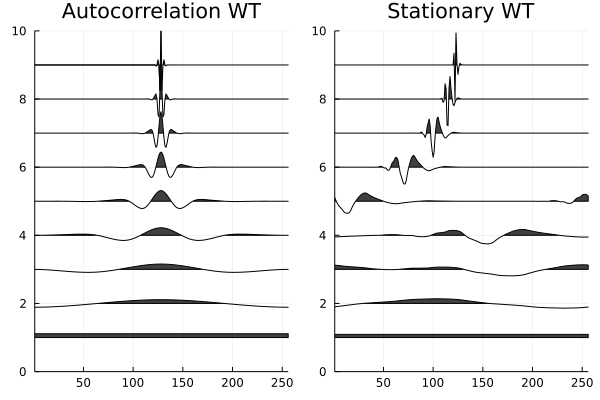
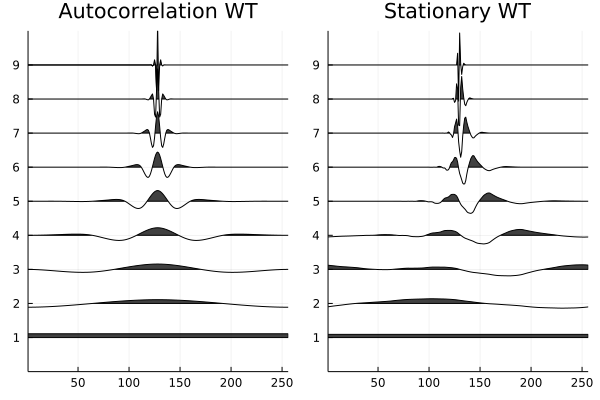
JOSS paper

diff --git a/paper/paper.md b/paper/paper.md
@@ -6,87 +6,100 @@ tags:
 authors:
   - name: Zeng Fung Liew^[co-first author] 
     affiliation: "1" 
-  - name: Shozen Dan^[co-first author] 
+  - name: Shozen Dan^[co-first author, corresponding author]
     affiliation: "2"
-  - name: Naoki Saito^[corresponding author]
-    affiliation: "1"
+  - name: Naoki Saito
+    affiliation: "3"
 affiliations:
- - name: University of California, Davis
+ - name: Department of Statistics, University of California, Davis, United States
    index: 1
- - name: Imperial College London
+ - name: Department of Mathematics, Imperial College London, United Kingdom
    index: 2
+ - name: Department of Mathematics, University of California, Davis, United States
+   index: 3
 date: 22 September 2021
 bibliography: paper.bib
 ---
 
 # Summary
-Whether it is seismic surveys, ECG signals, stock market trends, or sensor data, the wavelet and wavelet packet transforms are powerful tools for signal analysis and classification with many advantages over the conventional Fourier methods. Primary among them is the ability to extract information localized in both time and frequency domains, enabling multiresolution analysis `[@Daubechies:1992, @Mallat:2009]`. As such, wavelets and wavelet packets have become popular tools for computational harmonic analysis. `WaveletsExt.jl` was developed to enrich the wavelet toolbox for Julia by providing routines for wavelet analysis, wavelet packet analysis, and associated utilities.
+Whether it is seismic surveys, ECG signals, stock market trends, or sensor data, the wavelet and wavelet packet transforms are powerful tools for signal analysis and classification with many advantages over the conventional Fourier methods. Primary among them is the ability to extract information localized in both time and frequency domains, enabling multiresolution analysis [@Daubechies:1992; @Mallat:2009]. As such, wavelets and wavelet packets have become popular tools for computational harmonic analysis. `WaveletsExt.jl` was developed to augment `Wavelets.jl` (the existing wavelet toolbox for Julia) by providing routines for wavelet analysis, wavelet packet analysis, and associated utilities.
 
 # Statement of Need
-The principle package for wavelets in Julia is `Wavelets.jl`, which provides the essential building blocks for data analysis using wavelets. These include 1-D, 2-D, and 3-D wavelet transforms via filter banks or lifting, a range of thresholding functions, and other utilities. However, as a general-purpose package for wavelets, `Wavelets.jl` does not include many targeted and sophisticated methods present in the literature.
+Julia's principle package for wavelets is `Wavelets.jl` [@JuliaDSP:2021], which provides the essential building blocks for data analysis using wavelets. These include 1-D, 2-D, and 3-D wavelet transforms via filter banks or lifting, a range of thresholding functions, and other utilities. However, as a general-purpose package for wavelets, `Wavelets.jl` does not include many targeted and sophisticated methods present in the literature.
 
-`WaveletsExt.jl` (Wavelets Extension) is written to enlarge the wavelet toolbox for Julia by providing a host of wavelet routines such as stationary wavelet transform `[@Nason:1995]`, autocorrelation wavelet transform `[@Saito:1993]`, local discriminant basis `[@Saito:1995]`, and shift-invariant wavelet packet decomposition `[@Cohen:1995]`. The package also contains denoising utilities such as SureShrink`[@Donoho:1995]` and Relative Error Shrink[@Irion:2017] as well as several features for data visualization.
+`WaveletsExt.jl` (Wavelets Extension) enlarges the wavelet toolbox for Julia by providing a host of wavelet routines such as Stationary Wavelet Transform [@Nason:1995], Autocorrelation Wavelet Transform [@Saito:1993], Local Discriminant Basis [@Saito:1995], and Shift-invariant Wavelet Packet Decomposition [@Cohen:1995]. The package also contains denoising utilities such as SureShrink [@Donoho:1995a] and Relative Error Shrink [@Irion:2017] as well as several data visualization features.
 
-One of the most distinguishing features of `WaveletsExt.jl` is the presence of algorithms for handling an ensemble of input signals. Currently, `Wavelets.jl` implements best basis selection utilities for wavelet packets for single inputs. However, it does not include methods for selecting a single best basis for a set of inputs with similar properties (e.g signals or images belonging to the same class), which is valuable for feature extraction and data compression. To address this, `WaveletsExt.jl` implements the joint best basis algorithm which is an approximation of the Karhunen-Loeve transform [@Wickerhauser:1996].
+One of the most distinguishing features of `WaveletsExt.jl` is the presence of algorithms for handling an ensemble of input signals. Currently, `Wavelets.jl` implements best basis selection utilities for wavelet packets for single inputs. However, it does not include methods for selecting a single best basis for a set of inputs with similar properties (e.g., signals or images belonging to the same class), which is valuable for feature extraction and data compression. To address this, `WaveletsExt.jl` implements the Joint Best Basis (JBB) [@Wickerhauser:1996] and the Least Statistically Dependent Basis (LSDB) [@Saito:2001], which are approximations of the Principal Component Analysis (PCA) and Independent Component Analysis (ICA) respectively, obtained via a dictionary of orthonormal bases.
 
 # Examples
-In this section we showcase some notable functionalities of `WaveletsExt.jl` through four examples: 1) Redundant wavelet transforms, 2) Denoising algorithms, 3) Joint best basis, and 4) Feature extraction using Local Discriminant Basis.
-
 ## 1. Redundant Wavelet Transforms
+`WaveletsExt.jl` implements several redundant wavelet transforms including Stationary Wavelet Transform (SWT) [@Nason:1995] and Autocorrelation Wavelet Transform (a special case of SWT) [@Saito:1993]. These transformations can be performed using the `acwt` and `sdwt` functions. Users can also visualize the resulting decomposition with the `wiggle` function.
+
 ```julia
 using Plots, Wavelets, WaveletsExt
 
-x = zeros(1<<8) # Generate a dirac delta (unit impulse) signal
+x = zeros(1<<8) # Generate a unit impulse (dirac delta) signal
 x[128] = 1
 wt = wavelet(WT.db4)  # Construct Daubechies 4-tap wavelet filter
 
 # ----- Autocorrelation Wavelet Transforms -----
-y = acwt(x, wt)
-p1 = wiggle(y) |> p -> plot!(p, title="Autocorrelation WT")
+y = acdwt(x, wt)
+p1 = wiggle(y) |> p -> plot!(p, yticks=1:9, title="Autocorrelation WT")
 
 # ----- Stationary Wavelet Transforms -----
 y = sdwt(x, wt)
-p2 = wiggle(y) |> p -> plot!(p, title="Stationary WT")
+p2 = wiggle(y) |> p -> plot!(p, yticks=1:9, title="Stationary WT")
 
 # Combine and save plot
-p = plot(p1, p2, layout=(1,2))
+p = plot(p1, p2, layout=(1,2), size=(600,300))
 savefig(p, "transforms.png")
 ```
-![*Figure 1.* Coefficients at for every level of the autocorrelation wavelet transform and stationary wavelet transform on a unit impulse signal. \label{fig:transforms}](transforms.png){width=50%}
+!["Wiggle" plots displaying the value of coefficients in each level of the autocorrelation and stationary wavelet transform for a unit impulse signal. \label{fig:transforms}](transforms.png)
 
 ## Best Basis Algorithms
-`WaveletsExt.jl` can select a single best basis for set of signals has via Joint Best Basis (JBB) and Least Statistically Dependent Basis (LSDB). Users may also visualize the resulting best basis tree using `plot_tfbdry`.
+`WaveletsExt.jl` can select a single best basis for set of signals through the Joint Best Basis (JBB) [@Wickerhauser:1996] or Least Statistically Dependent Basis (LSDB) [@Saito:2001] algorithms. The resulting best basis tree can be visualized using `plot_tfbdry`.
 
 ```julia
+using Plots, Wavelets, WaveletsExt
+
 # Generate 100 noisy heavysine signals of length 2⁸
-x = generatesignals(:heavysine, 8) |> x -> duplicatesignals(x, 100, 2, true, 0.5)
+x = generatesignals(:heavysine, 8) |> 
+    x -> duplicatesignals(x, 100, 2, true, 0.5)
+
 # Wavelet packet decomposition of all signals
-xw = [wpd(xᵢ, wt) for xᵢ in eachcol(x)] |> xw -> cat(xw..., dims=3)
+xw = wpdall(x, wt)
 
 # ----- Joint Best Basis (JBB)
 tree = bestbasistree(xw, JBB())
-p1 = plot_tfbdry(tree) |> p -> plot!(p, title="JBB")
+p1 = plot_tfbdry(tree, nd_col=:black, ln_col=:black, bg_col=:white) |> 
+     p -> plot!(p, title="JBB")
 
 # ----- Least Statistically Dependent Basis (LSDB)
 tree = bestbasistree(xw, LSDB())
-p2 = plot_tfbdry(tree) |> p -> plot!(p, title="LSDB")
+p2 = plot_tfbdry(tree, nd_col=:black, ln_col=:black, bg_col=:white) |> 
+     p -> plot!(p, title="LSDB")
 
 # Combine and save plot
-p = plot(p1, p2, layout=(1,2))
+p = plot(p1, p2, layout=(1,2), size=(600,300))
 savefig(p, "bestbasis.png")
 ```
-![*Figure 2.* The selected best basis trees for 100 noisy heavysine signals using Joint Bast Basis and Least Statistically Dependent Basis. \label{fig:bestbasis}](bestbasis.png){width=50%}
+![The best basis trees of 100 noisy Heavy Sine signals selected by the JBB and LSDB algorithms. \label{fig:bestbasis}](bestbasis.png)
 
 ## Denoising Algorithms
-`WaveletsExt.jl` contains two functions for denoising: `denoise` and `denoiseall`. The former denoises a single signal whereas the is used to denoise a set of signals simultaneously.
+`WaveletsExt.jl` contains two functions for denoising: `denoise` and `denoiseall`. The former denoises a single signal whereas the latter denoises a set of signals simultaneously. For more examples of denoising using `WaveletsExt.jl`, refer to [@Liew:2021].
+
 ```julia
-# Generate 6 circularly shifted original heavysine signals
-x₀ = generatesignals(:heavysine, 8) |> x -> duplicatesignals(x, 6, 2, false)
+using Plots, Wavelets, WaveletsExt
+
+# Generate 6 circularly shifted heavysine signals
+x₀ = generatesignals(:heavysine, 8) |> 
+     x -> duplicatesignals(x, 6, 2, false)
 # Generate 6 noisy versions of the original signals
-x = generatesignals(:heavysine, 8) |> x -> duplicatesignals(x, 6, 2, true, 0.8)
+x = generatesignals(:heavysine, 8) |> 
+    x -> duplicatesignals(x, 6, 2, true, 0.8)
 
 # Decompose each noisy signal
-xw = [wpd(xᵢ, wt) for xᵢ in eachcol(x)] |> xw -> cat(xw..., dims=3)
+xw = wpdall(x, wt)
 
 # Get best basis tree from the decomposition of signals
 bt = bestbasistree(xw, JBB())
@@ -106,66 +119,61 @@ wiggle!(x₀, sc=0.7, FaceColor=:white, ZDir=:reverse)
 wiggle!(x̂, sc=0.7, FaceColor=:white, ZDir=:reverse)
 
 # Combine and save plot
-p = plot(p1, p2, layout=(1,2))
+p = plot(p1, p2, layout=(1,2), size=(600,300))
 savefig(p, "denoising.png")
 ```
-![*Figure 3.*  Heavysine signals with Gaussian noise and denoised signals using joint bast basis\label{fig:denoising}](denoising.png){width=50%}
+![Left: Heavy Sine signals with Gaussian noise. Right: Simultaneously denoised signals.  \label{fig:denoising}](denoising.png)
 
 ## Feature Extraction
-Users can extract distinguishing features of signals locallized in time and frequency using Local Discriminant Basis (LDB). The algorithms extracts subspaces that discriminates different classes of signals.
+Users can extract distinguishing features of signals localized in time and frequency using the Local Discriminant Basis (LDB) algorithm. Further details can be found in the original paper by Saito (1995) [@Saito:1995] and the interactive tutorial [@Dan:2021].
+
 ```julia
+using Plots, Wavelets, WaveletsExt
+
 # Generate 100 signals for each class of cylinder-bell-funnel
 X, y = generateclassdata(ClassData(:cbf, 100, 100, 100))
 # View sample signals and how each class differs from one another
-cylinder = wiggle(X[:,1:5], sc=0.3)
-plot!(cylinder, title="Cylinder signals")
-bell = wiggle(X[:,101:105], sc=0.3)
-plot!(bell, title="Bell signals")
-funnel = wiggle(X[:,201:205], sc=0.3)
-plot!(funnel, title="Funnel signals")
-p = plot(cylinder, bell, funnel, layout=(3,1))
-savefig(p, "cyl_bel_fun.png")
+cylinder = wiggle(X[:,1:5], sc=0.3, EdgeColor=:white, FaceColor=:white)
+plot!(cylinder, yticks=1:5, ylabel="Cylinder")
+bell = wiggle(X[:,101:105], sc=0.3, EdgeColor=:white, FaceColor=:white)
+plot!(bell, yticks=1:5, ylabel="Bell")
+funnel = wiggle(X[:,201:205], sc=0.3, EdgeColor=:white, FaceColor=:white)
+plot!(funnel, yticks=1:5, ylabel="Funnel")
+p1 = plot(cylinder, bell, funnel, layout=(3,1))
 
-# Define Local Discriminant Basis object (`n_features` can be tweaked depending on the
-# number of desired features to be used as input into classification model)
+# Instantiate the LDB object
 wt = wavelet(WT.coif4)
-ldb = LocalDiscriminantBasis(wt=wt,
-                             max_dec_level=7,
-                             dm=SymmetricRelativeEntropy(),
-                             en=TimeFrequency(),
-                             dp=BasisDiscriminantMeasure(),
-                             top_k=10,
-                             n_features=10)
+ldb = LocalDiscriminantBasis(
+  wt=wt,
+  max_dec_level=7,
+  dm=SymmetricRelativeEntropy(),
+  en=TimeFrequency(),
+  dp=BasisDiscriminantMeasure(),
+  top_k=10,
+  n_features=10 # Number of features to extract
+)
                             
-# Fit and transform signals into features using LDB
+# Extract features using LDB
 X̂ = fit_transform(ldb, X, y)
 
 # Plot the best basis for feature extraction
-p = plot_tfbdry(ldb.tree)
+p2 = plot_tfbdry(ldb.tree, nd_col=:black, ln_col=:black, bg_col=:white)
+plot!(p2, title="Basis Selection using LDB")
+
+# Combine and save plot
+p = plot(p1, p2, size=(600,300))
 savefig(p, "ldb.png")
 ```
-![*Figure 4.*  Cylinder-Bell-Funnel class signals and the selected best bases for discriminating the signals\label{fig:denoising}](denoising.png){width=50%}
+![Left: Examples of Cylinder, Bell, and Funnel signals. Right: The best basis tree selected by the LDB algorithm for discriminating the three classes of signals. \label{fig:denoising}](ldb.png)
 
 # Reproducible Research
+`WaveletsExt.jl` was partially inspired by the WaveLab library in MATLAB, which was developed to enable reproducible wavelet research [@Donoho:1995b]. In this spirit, we wrote a series of tutorials, examples, and experiments using `Pluto.jl`, a platform with which Julia users can create and share reactive documents [@Fonsp:2021]. By downloading and running these so-called Pluto notebooks, researchers and students alike can reproduce the results of our research and interactively adjust parameters to see the changes in experiment outcome.
 
-`WaveletsExt.jl` was partially inspired by the WaveLab library in MATLAB which was developed with the goal of enabling reproducible wavelets research [@Donoho:1995]. In this spirit, we wrote a series of tutorials, examples, and experiments using `Pluto.jl`, a platform with which Julia can create and share reactive documents [@Fonsp:2021]. By downloading and running these so-called Pluto notebooks, researchers and students alike can not only reproduce the results of our research but also interactively adjust parameters and see the changes in experiment outcome.
+- Denoising Experiments using Wavelet Transforms, Autocorrelation Wavelet Transforms, Stationary Wavelet Transforms [@Liew:2021]
 
-- Denoising Experiments using Wavelet Transforms, Autocorrelation Wavelet Transforms, Stationary Wavelet Transforms `[@Liew:2021]`
-
-- Feature Extraction for Signal Classification using Local Discriminant Bases `[@Dan:2021]`
-
-
-# Figures
-
-Figures can be included like this:
-![Caption for example figure.\label{fig:example}](figure.png)
-and referenced from text using \autoref{fig:example}.
-
-Figure sizes can be customized by adding an optional second parameter:
-![Caption for example figure.](figure.png){ width=20% }
+- Feature Extraction using Local Discriminant Bases for Signal Classification [@Dan:2021]
 
 # Acknowledgements
-
-Developed partially using NSF grant. 
+This project was partially supported by the following grants from the US National Science Foundation: DMS-1148643; DMS-1418779; DMS-1912747; and CCF-1934568.
 
 # References

diff --git a/paper/README.md b/paper/README.md
@@ -1,0 +1,1 @@
+# JOSS-test
